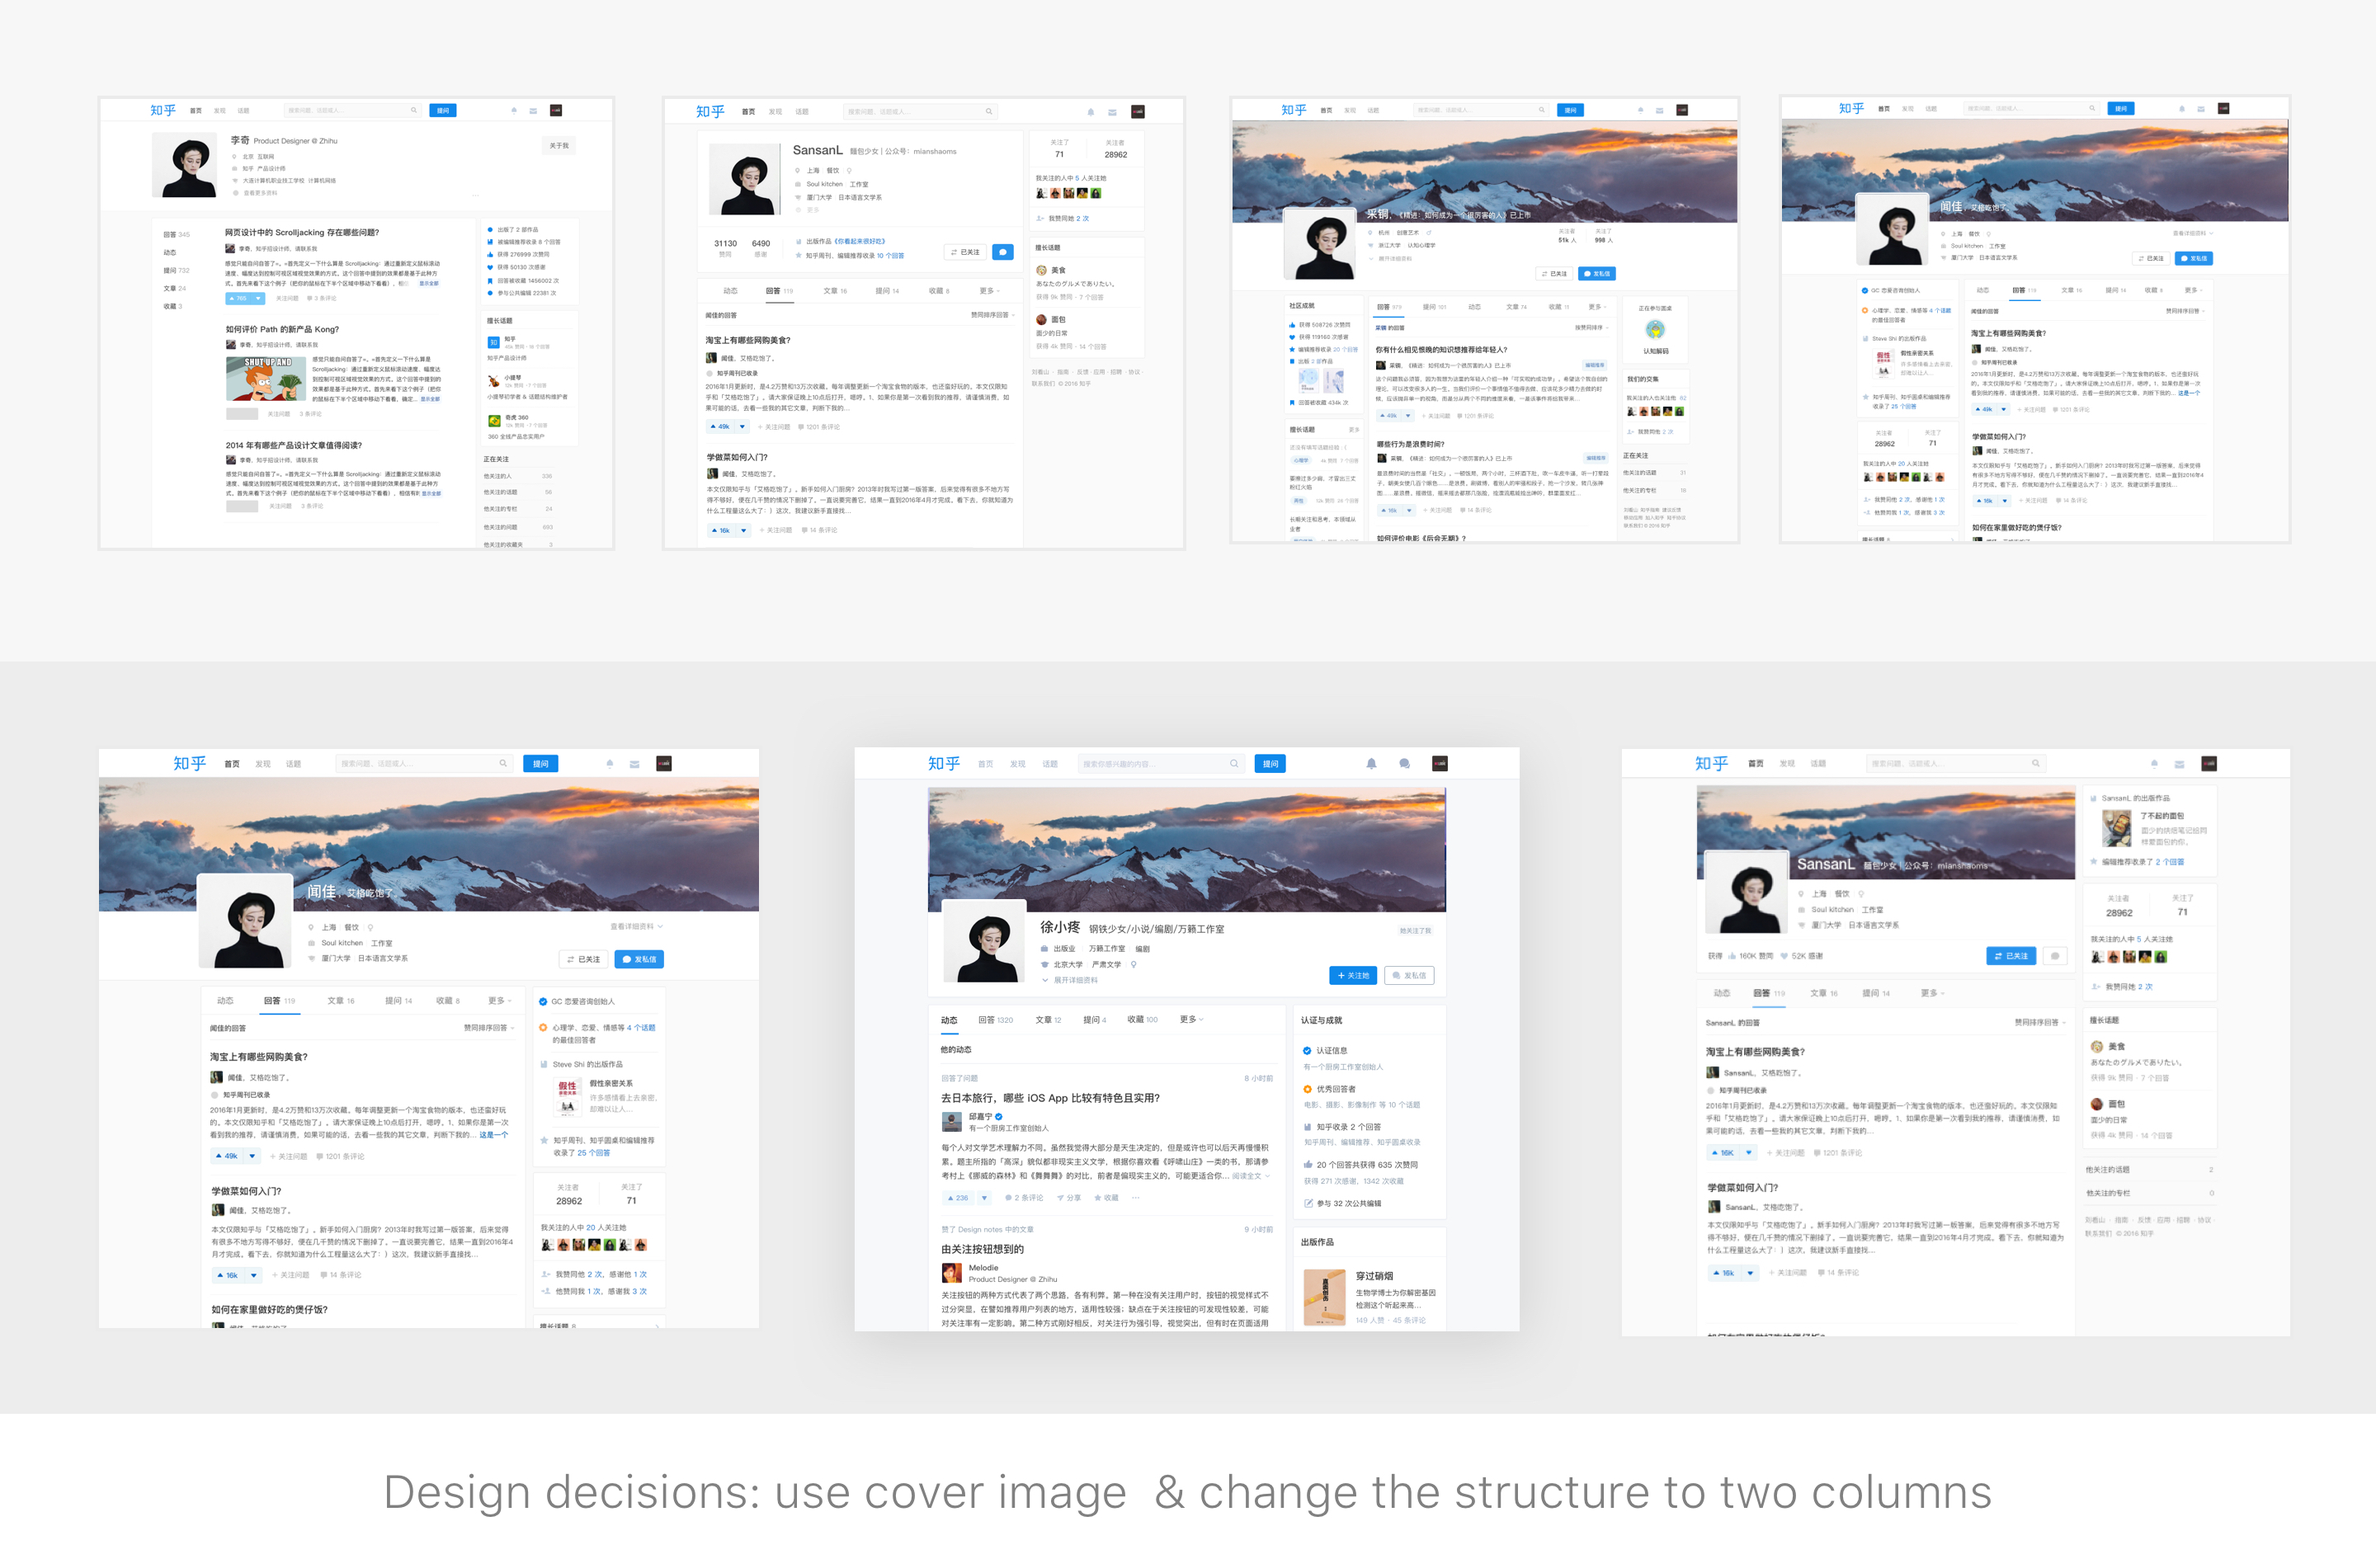
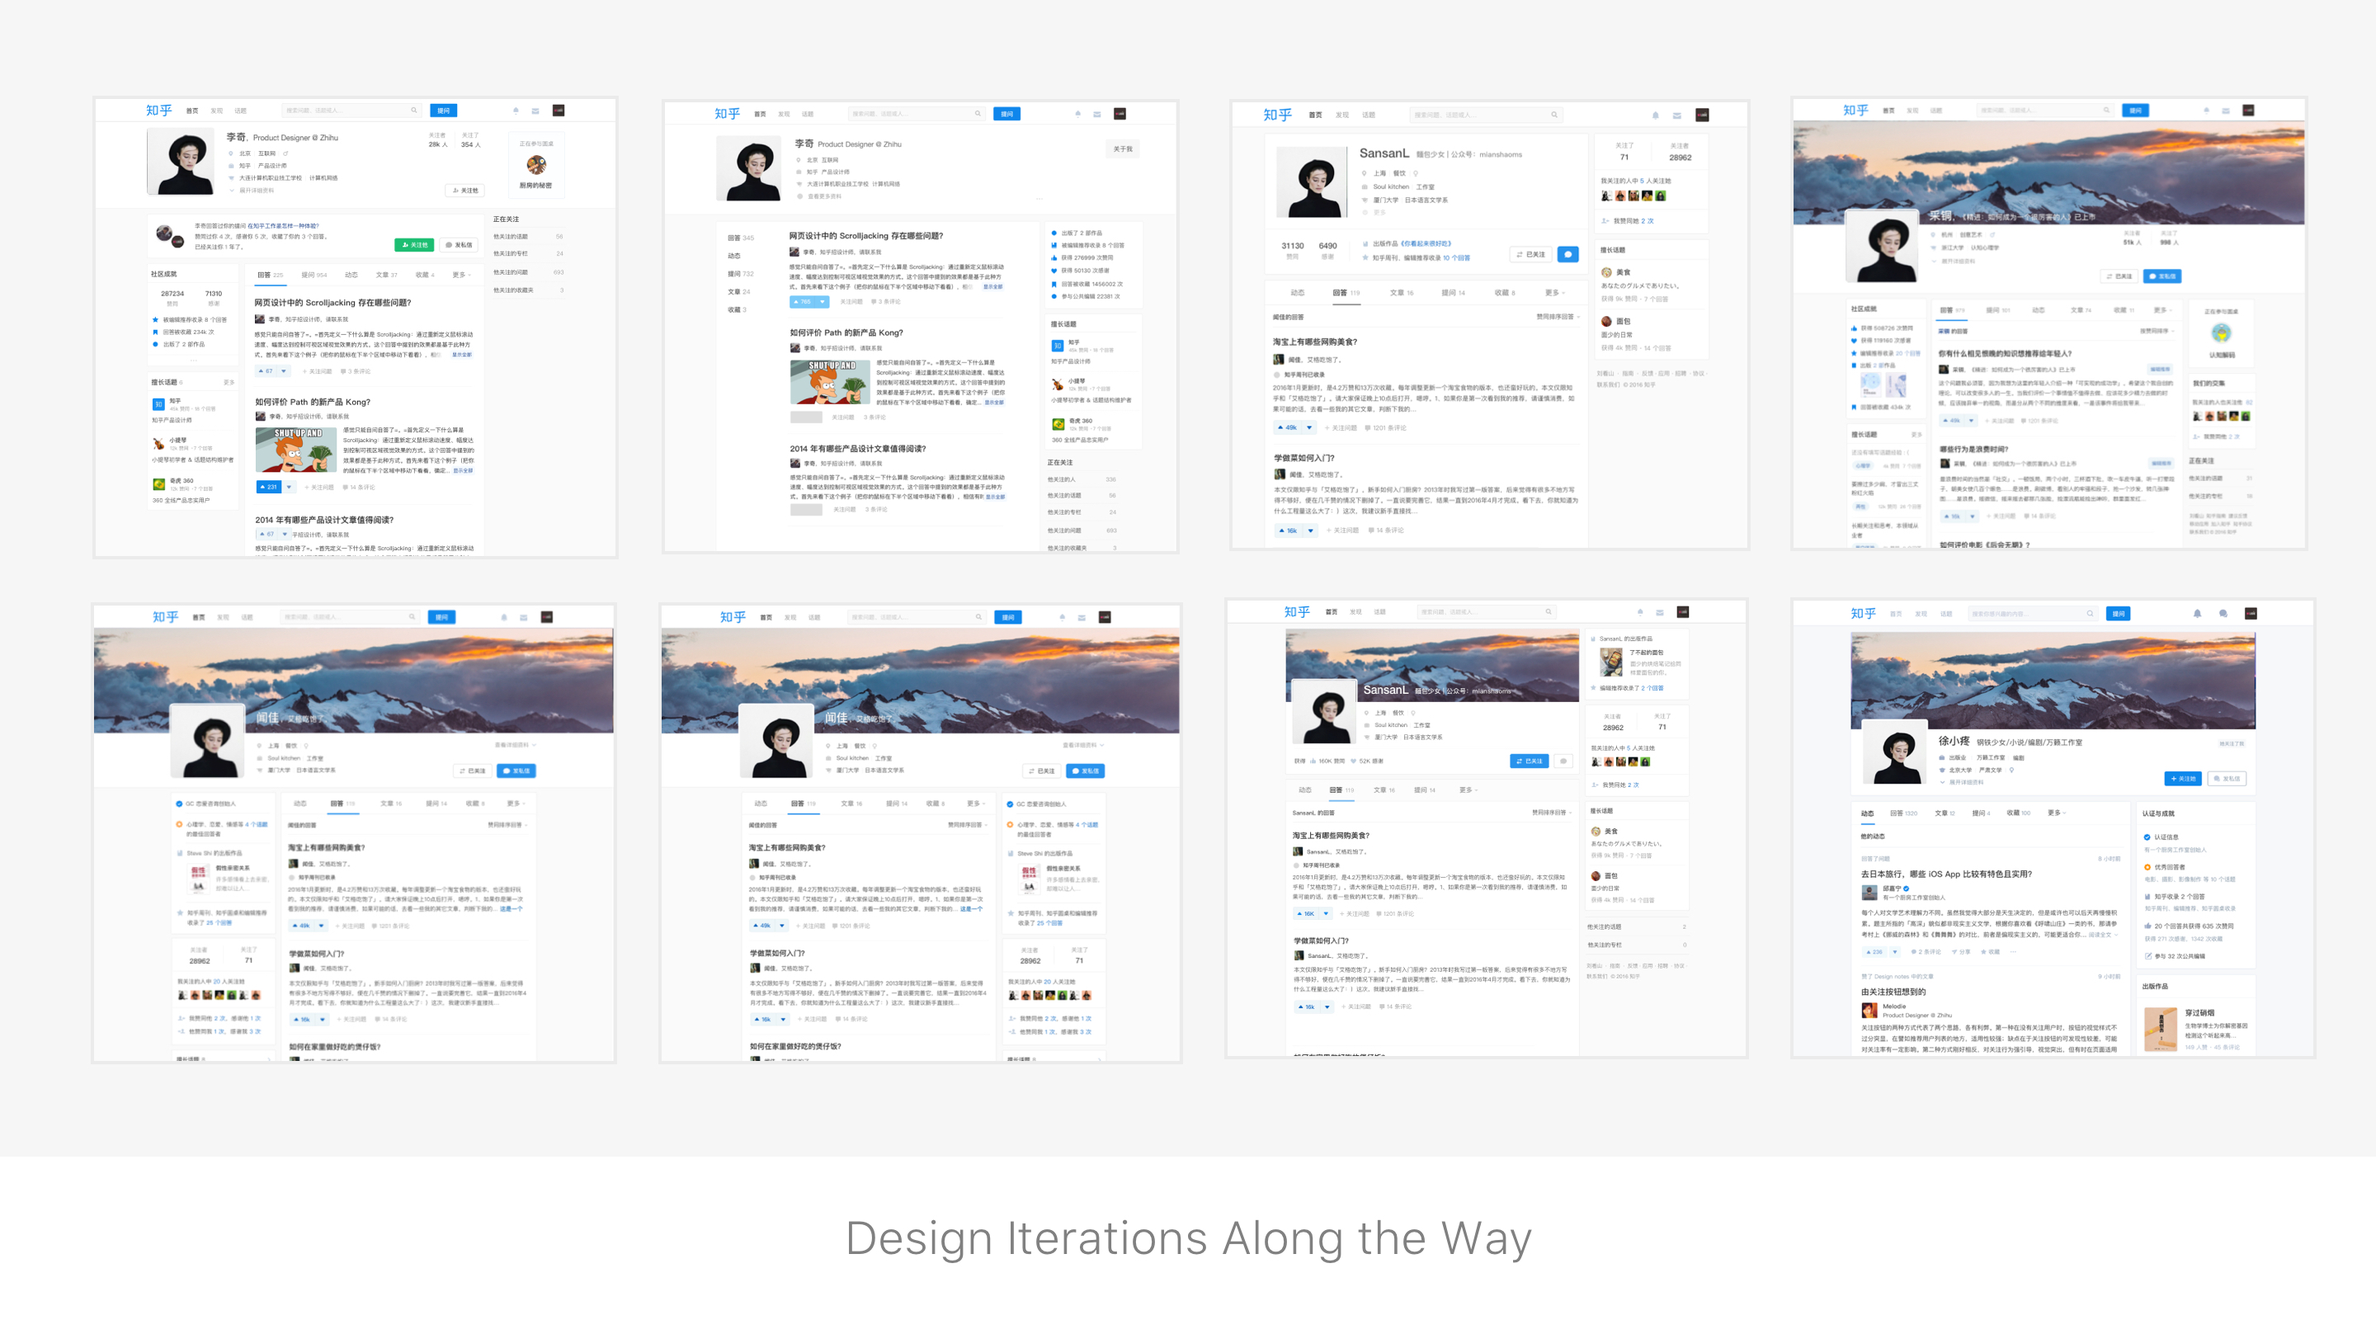
finishing profile

diff --git a/_posts/2018-10-3-profile.md b/_posts/2018-10-3-profile.md
@@ -83,7 +83,7 @@ Inspired by the insights from the wireframe phase, I started to do experiments w
 ### Getting Feedback
 
 In order to validate my design concept, I printed these prototypes and put them on the wall of the office where people could stop by and take a look. We created a Slack channel and received lots of feedback from internal users.
-![image](/imgs/profile/feedback.jpg)
+![image](/imgs/profile/feedback2.jpg)
 
 From these feedback, I was able to see what worked and **what didn't work out** with my first trial:
 - Even though using 3 columns to layout could display more with the same space, people felt overwhelmed and the efficiency of viewing content, on the contrary, was reduced.
@@ -91,31 +91,39 @@ From these feedback, I was able to see what worked and **what didn't work out** 
 - We should value community achievements over the number of followers.
 - The order of the navigation tab was not aligned with people's mental model.
 
-### Design Decisions to Make Profile More "Human"
-For the second round of iteration, I applied **cover photos** to help set the tone and involve people in the design of their own profiles. On this stage, another major change I made was the layout. I used **2 columns layout** to create clearer structure. It was more consistent with other pages. Also, I tweaked some small UI elements like moving the name on top of the cover photo to the bottom of it since the previous solution caused legibility concerns.
+### Iterate, Iterate, and Iterate
+
+Based on all the feedback, I did more explorations and iterations to resolve the problems I found. At the same time, I looked back at our goals of redesign and design principles to make sure I didn't get lost.
 
 ![image](/imgs/profile/iteration2.jpg)
 
-Result: Users felt less overwhelmed. The 2-column solution provided better visual priority and browsing flow. The addition of cover photos lighted the entire page. Now the Profile was much more "human" and attractive.
+#### Here are some of the major design changes I made throughout the iterative process:
+- Used **2-column layout** instead of 3-column to create clearer visual priority and browsing flow. It's also more consistent with other pages.
+- Applied **cover photos** to help set the tone, involve people in the design of their own profiles, and build personal brand.
+- **Adjusted the order of the navigation tab** to match people's mental model.
+- **Reduce unnecessary visual elements** to make people focus on the content itself.
+- **Tweaked UI elements** to improve clarity. For example, I moved the name on top of the cover photo to the bottom of it since the previous solution caused legibility concerns.
 
 ### Take a Step Further on Efficiency
 
-One of our goal was to make the experience more efficient. I made interactive prototypes to test my idea about the content navigation tab, which was the key to improve efficiency. Here are my iterating process:
+One of our goal was to make the experience more efficient. I made interactive prototypes to test my idea on the content navigation, which was the key to improve efficiency of browsing. Here are my iterations:
 
-1. **The navigation tabs would stick to the top header when user scrolls the page.** The problem was two bars sticking on the top of page took up too much space thus it was not friendly for users with smaller viewpoint screens.
+- **Iteration 1**: The navigation tabs would stick to the top header when user scrolls the page. The problem was two bars sticking on the top of page took up too much space thus it was not friendly for users with smaller viewpoint screens.
 ![image](/imgs/profile/prototype1.gif)
 
-2. **How about we push the header out of the view when user scrolls down and bring it back when user scrolls up?** However, by testing with prototype, I found that the movement felt bulky and disturbing.
+- **Iteration 2**: How about we push the header out of the view when user scrolls down and bring it back when user scrolls up?** However, by testing with prototype, I found that the movement felt bulky and disturbing.
 ![image](/imgs/profile/prototype2.gif)
 
-3. **How about we combine the header and navigation tabs?** Yes it worked! The final solution hit a balance between efficiency and volume. The experience was more smooth and responsive. (<strong><a href="https://www.zhihu.com/people/peipei55905" target="_blank">Click here</a></strong> to check online interaction)
+- **Iteration 3**: How about we combine the header and navigation tabs? Yes it worked! The final solution hit a balance between efficiency and volume. The experience was more smooth and responsive.
+
+   ![image](/imgs/profile/prototype3.gif)
 
 
 ## Web Profile Final Design
 
-We refreshed the user interface with a clearer and more efficient design that helps people's content shine. When the core page redesign was taking shape, I also worked on sub-modules related to Profile, including content list under each tab and the experience of editing Profile.
+We refreshed the user interface with a clearer and more efficient design that **helps people's content shine**.
 
-At the same time, I partnered with 3 designers to build the foundation of Zhihu Web 2.0 Design System. We kept evolving the style guides and components to guide the redesign of the other pages and modules on web product.
+At the same time, I worked on **sub-modules** related to Profile, including content layout under each tab and the experience of viewing and editing Profile. Also, I partnered with 3 designers to build the foundation of **Zhihu Web 2.0 Design System**. We kept evolving the style guides and components to guide the redesign of the other pages and modules on web product.
 
 ![image](/imgs/profile/web_profile2.jpg)
 
@@ -123,7 +131,7 @@ At the same time, I partnered with 3 designers to build the foundation of Zhihu 
 
 ![image](/imgs/profile/web_styleguide.jpg)
 
-<h3 align="center">Check out Their Online Profiles 👇🏼</h3>
+<h3 align="center">Check out People's Online Profiles 👇🏼</h3>
 <figure>
     <a href="https://www.zhihu.com/people/melodiezhang" target="_blank">
       <img src="/imgs/profile/profile_1.jpg" width="220px">
